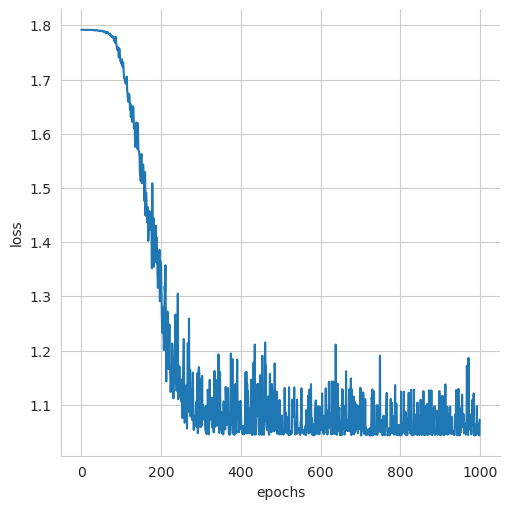
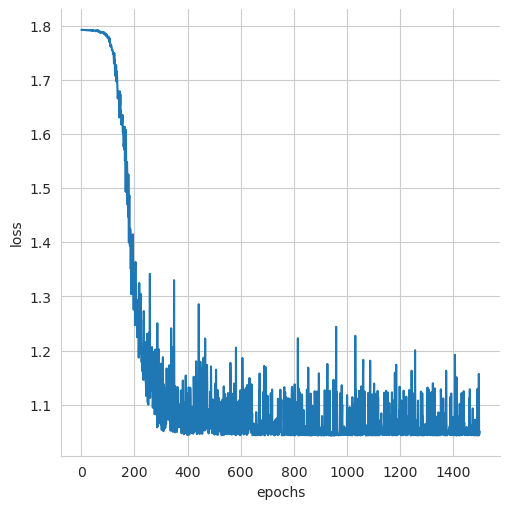
added epochs to yaml file

diff --git a/train.py b/train.py
@@ -26,6 +26,9 @@ config = yaml.load(open("conf.yaml", "r"), yaml.SafeLoader)
 args = argparse.Namespace(**config)
 
 x, y, weights, sq_len, vocab, bs = load_data()
+args.vocab = vocab
+args.batch = bs
+yaml.dump(vars(args), open("conf.yaml", "w"), yaml.SafeDumper)
 # loss = torch.nn.CrossEntropyLoss(weight=torch.tensor(weights))
 loss = torch.nn.CrossEntropyLoss()
 args.vocab = vocab
@@ -40,7 +43,7 @@ optim = AdamW(params=model.parameters(),
 
               )
 
-n = 1000
+n = args.epochs
 schedule = LinearWarmupCosineAnnealingLR(
     optimizer=optim,
     warmup_epochs=int((1 / 4) * n),

diff --git a/README.md b/README.md
@@ -1,0 +1,4 @@
+#Introduction
+This repository uses **stacked-LSTM** architecture using **two** layers to 
+train on the given data.
+
